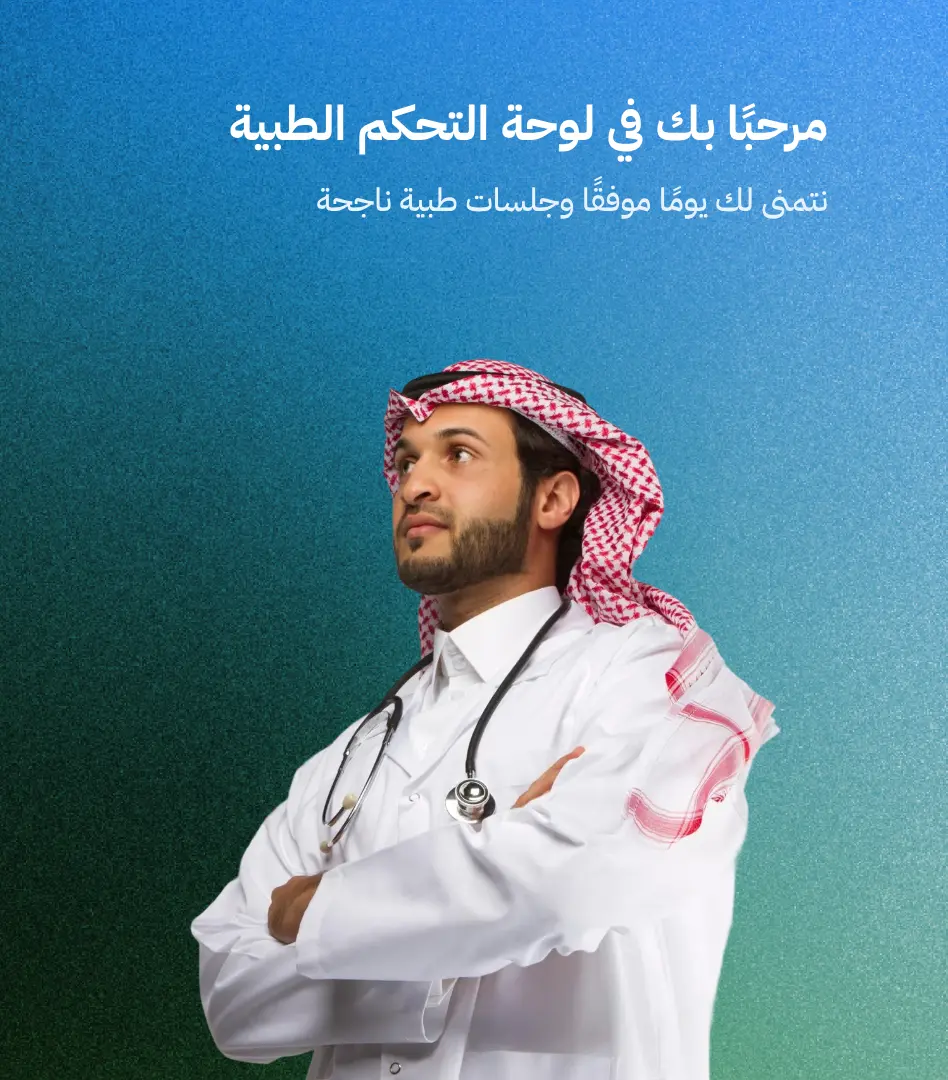
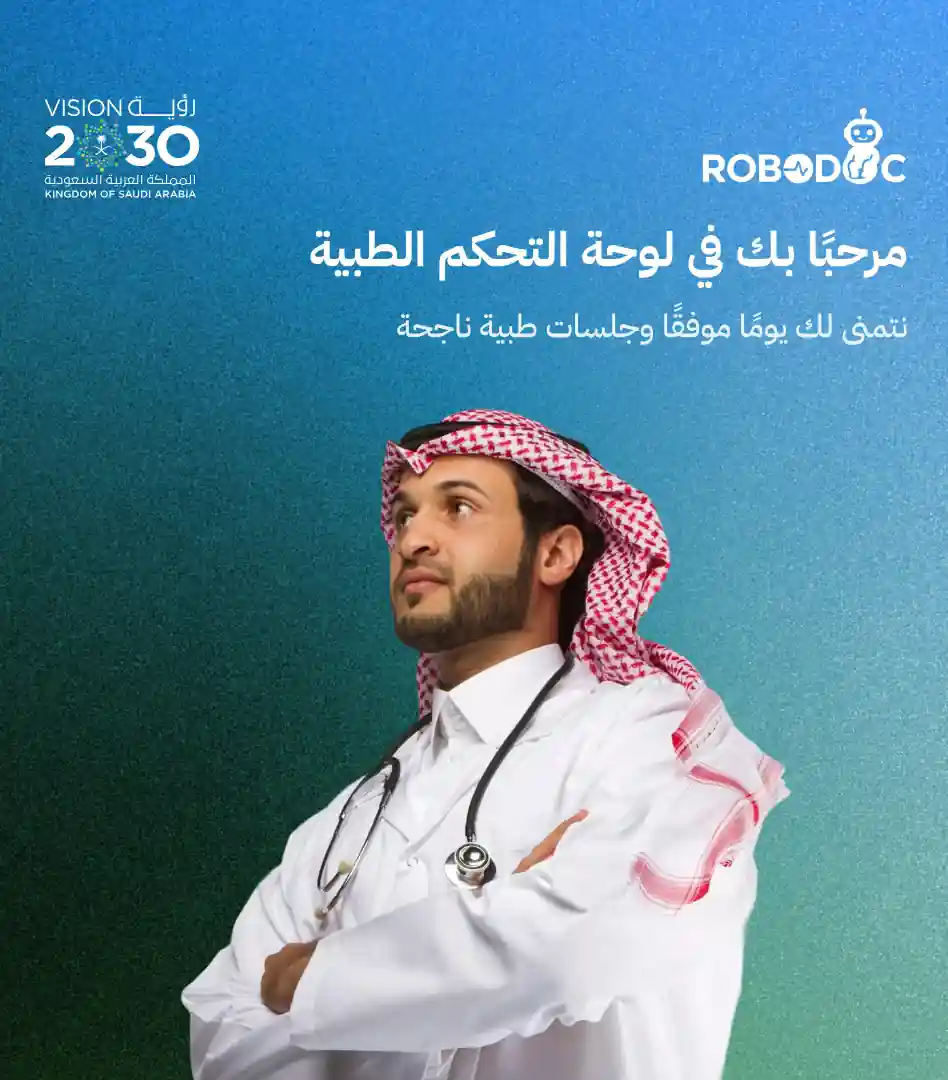
replace register image and install aos

Changed region(s): [[0.1835, 0.0917, 0.9789, 1.0], [0.0306, 0.0917, 0.2141, 0.1833]]

diff --git a/src/component/Register_img.jsx b/src/component/Register_img.jsx
@@ -1,13 +1,12 @@
 import React from 'react'
 import Image from "next/image";
-
 const Register_img = () => {
   return (
        <Image
           src='/register_frame.webp'
-          alt="login frame"
+          alt="register_frame"
           className="w-full  h-full "
-          width={10000}
+          width={900}
           height={1000}
         />
   )

diff --git a/src/app/page.js b/src/app/page.js
@@ -1,4 +1,4 @@
-import Login from'./Register/Login/page.jsx'
+import Login from'./register/login/page.jsx'
 
 export default function Home() {
 
